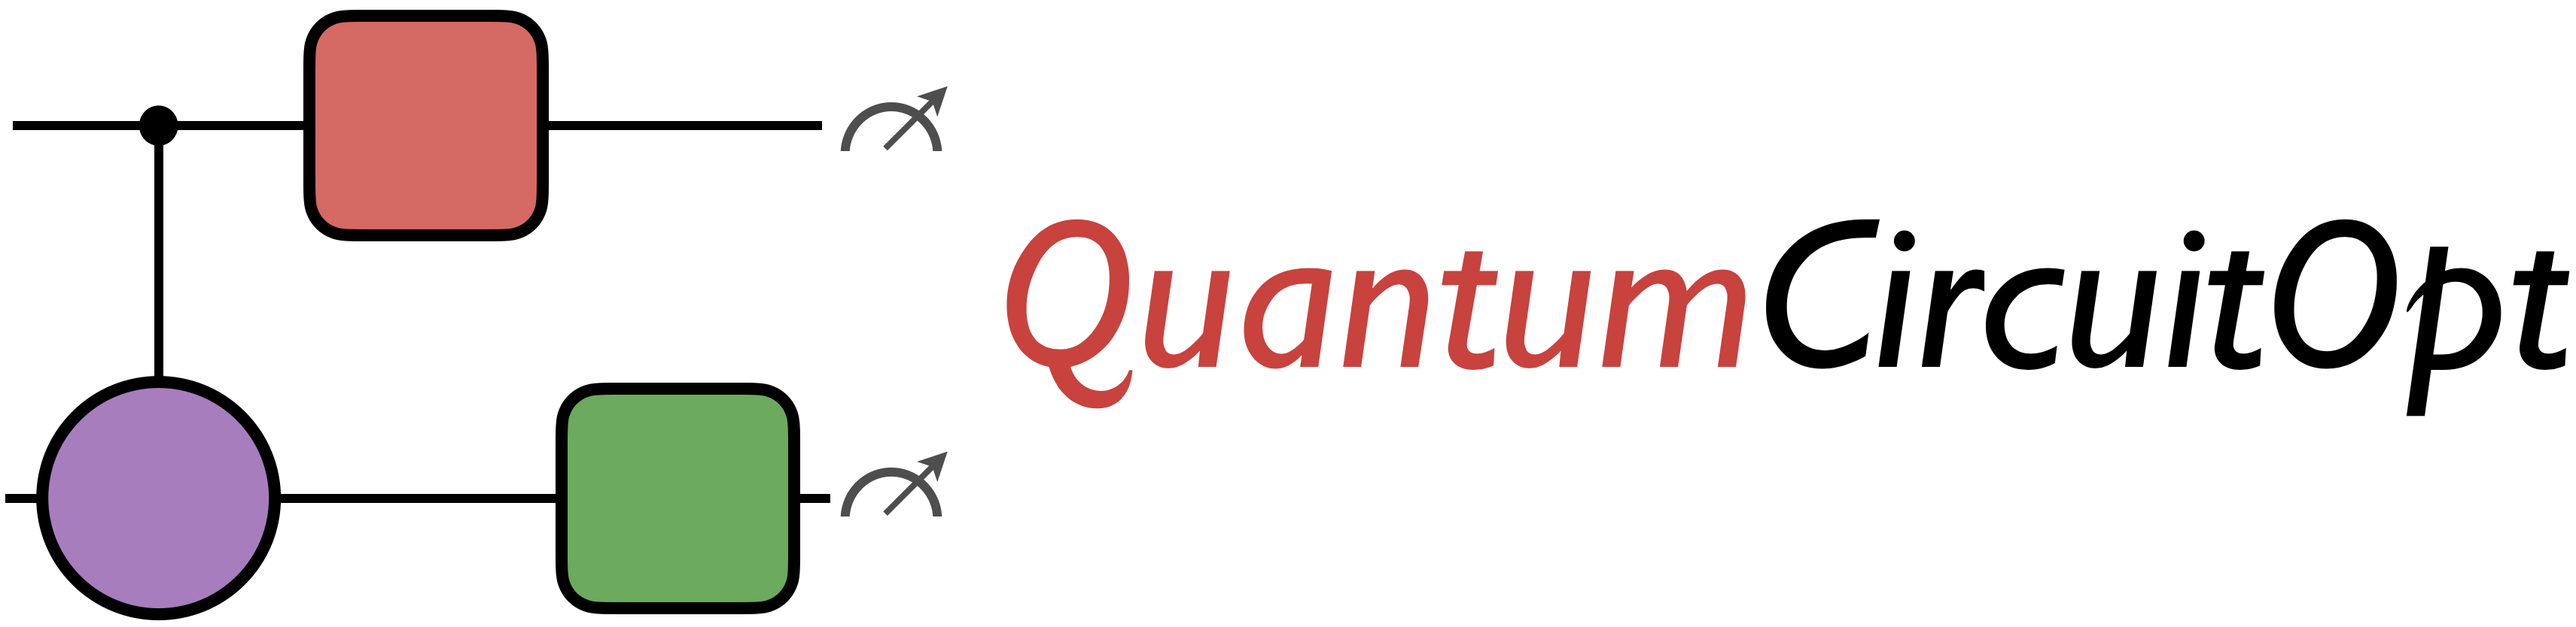
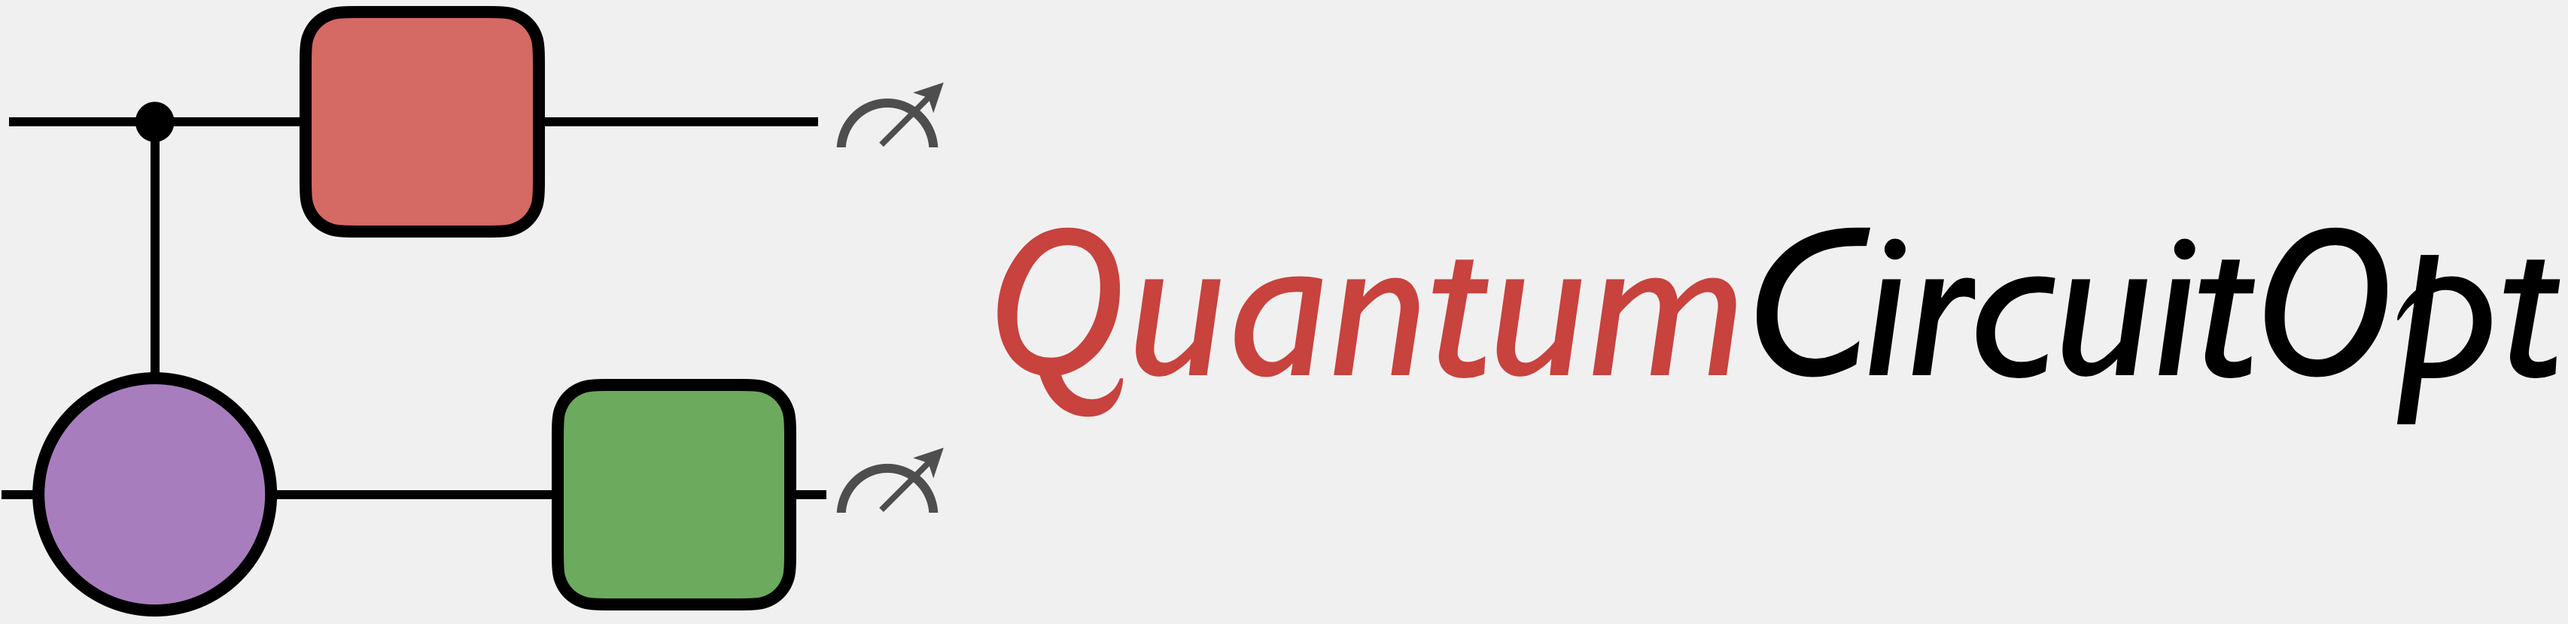
docs fixes

diff --git a/docs/src/assets/themes/documenter-light.css b/docs/src/assets/themes/documenter-light.css
@@ -10878,6 +10878,104 @@ Original highlight.js style (c) Ivan Sagalaev <maniac@softwaremaniacs.org>
 #documenter .docs-sidebar {
   border-right: none;
   box-shadow: 0.24rem 0rem 0.4rem #bbb; }
+
+#documenter .docs-sidebar form.docs-search > input {
+  color: #f0f0f0;
+  background-color: #214278;
+  border-color: #183058;
+  margin-top: 1.0rem;
+  margin-bottom: 1.0rem; }
+
+#documenter .docs-sidebar form.docs-search > input::placeholder {
+  color: #f0f0f0; }
+
+#documenter .docs-sidebar {
+  border-right: none;
+  box-shadow: 0.24rem 0rem 0.4rem #bbb; }
+
+#documenter .docs-sidebar form.docs-search > input {
+  color: #f0f0f0;
+  background-color: #214278;
+  border-color: #183058;
+  margin-top: 1.0rem;
+  margin-bottom: 1.0rem; }
+
+#documenter .docs-sidebar form.docs-search > input::placeholder {
+  color: #f0f0f0; }
+
+#documenter .docs-sidebar {
+  border-right: none;
+  box-shadow: 0.24rem 0rem 0.4rem #bbb; }
+
+#documenter .docs-sidebar form.docs-search > input {
+  color: #f0f0f0;
+  background-color: #214278;
+  border-color: #183058;
+  margin-top: 1.0rem;
+  margin-bottom: 1.0rem; }
+
+#documenter .docs-sidebar form.docs-search > input::placeholder {
+  color: #f0f0f0; }
+
+#documenter .docs-sidebar {
+  border-right: none;
+  box-shadow: 0.24rem 0rem 0.4rem #bbb; }
+
+#documenter .docs-sidebar form.docs-search > input {
+  color: #f0f0f0;
+  background-color: #214278;
+  border-color: #183058;
+  margin-top: 1.0rem;
+  margin-bottom: 1.0rem; }
+
+#documenter .docs-sidebar form.docs-search > input::placeholder {
+  color: #f0f0f0; }
+
+#documenter .docs-sidebar {
+  border-right: none;
+  box-shadow: 0.24rem 0rem 0.4rem #bbb; }
+
+#documenter .docs-sidebar form.docs-search > input {
+  color: #f0f0f0;
+  background-color: #214278;
+  border-color: #183058;
+  margin-top: 1.0rem;
+  margin-bottom: 1.0rem; }
+
+#documenter .docs-sidebar form.docs-search > input::placeholder {
+  color: #f0f0f0; }
+
+#documenter .docs-sidebar {
+  border-right: none;
+  box-shadow: 0.24rem 0rem 0.4rem #bbb; }
+
+#documenter .docs-sidebar form.docs-search > input {
+  color: #f0f0f0;
+  background-color: #214278;
+  border-color: #183058;
+  margin-top: 1.0rem;
+  margin-bottom: 1.0rem; }
+
+#documenter .docs-sidebar form.docs-search > input::placeholder {
+  color: #f0f0f0; }
+
+#documenter .docs-sidebar {
+  border-right: none;
+  box-shadow: 0.24rem 0rem 0.4rem #bbb; }
+
+#documenter .docs-sidebar form.docs-search > input {
+  color: #f0f0f0;
+  background-color: #214278;
+  border-color: #183058;
+  margin-top: 1.0rem;
+  margin-bottom: 1.0rem; }
+
+#documenter .docs-sidebar form.docs-search > input::placeholder {
+  color: #f0f0f0; }
+
+#documenter .docs-sidebar {
+  border-right: none;
+  box-shadow: 0.24rem 0rem 0.4rem #bbb; }
   #documenter .docs-sidebar form.docs-search > input {
     color: #f0f0f0;
     background-color: #214278;

diff --git a/docs/src/assets/themes/documenter-dark.css b/docs/src/assets/themes/documenter-dark.css
@@ -7085,6 +7085,8 @@ html.theme--documenter-dark {
     overflow-x: auto; }
   html.theme--documenter-dark .content blockquote > ul:first-child, html.theme--documenter-dark .content blockquote > ol:first-child, html.theme--documenter-dark .content .admonition-body > ul:first-child, html.theme--documenter-dark .content .admonition-body > ol:first-child {
     margin-top: 0; }
+  html.theme--documenter-dark pre, html.theme--documenter-dark code {
+    font-variant-ligatures: no-contextual; }
   html.theme--documenter-dark .breadcrumb a.is-disabled {
     cursor: default;
     pointer-events: none; }

diff --git a/docs/src/index.md b/docs/src/index.md
@@ -1,6 +1,6 @@
 ```@raw html
 <p align="center">
-<img width="775px" src="assets/docs_header.png"/>
+<img width="780px" src="assets/docs_header.png"/>
 </p>
 ```
 
@@ -10,7 +10,7 @@
 CurrentModule = QuantumCircuitOpt
 ```
 ## Overview
-**QuantumCircuitOpt.jl** is a Julia package which implements discrete optimization-based methods for optimal synthesis of the architecture for Quantum circuits. While programming Quantum Computers, a primary goal is to build useful and less-noisy quantum circuits from the basic building blocks, also termed as elementary gates which arise due to hardware constraints. Thus, given a desired target quantum gate and a set of elemental one- and two-qubit gates, this package provides a _provably optimal, exact_ (or, if preferable, an approximate) decomposition with minimum number of elemental gates and CNOT gates. _Note that QuantumCircuitOpt currently supports only decompositions up to three-qubit gates_.
+**[QuantumCircuitOpt.jl](https://github.com/harshangrjn/QuantumCircuitOpt.jl)** is a Julia package which implements discrete optimization-based methods for optimal synthesis of the architecture for Quantum circuits. While programming Quantum Computers, a primary goal is to build useful and less-noisy quantum circuits from the basic building blocks, also termed as elementary gates which arise due to hardware constraints. Thus, given a desired target quantum gate and a set of elemental one- and two-qubit gates, this package provides a _provably optimal, exact_ (or, if preferable, an approximate) decomposition with minimum number of elemental gates and CNOT gates. _Note that QuantumCircuitOpt currently supports only decompositions up to three-qubit gates_.
 
 ## Installation 
 To use QuantumCircuitOpt, first [download and install](https://julialang.org/downloads/) Julia. Note that the current version of QuantumCircuitOpt is compatible with Julia 1.0 and later. 
